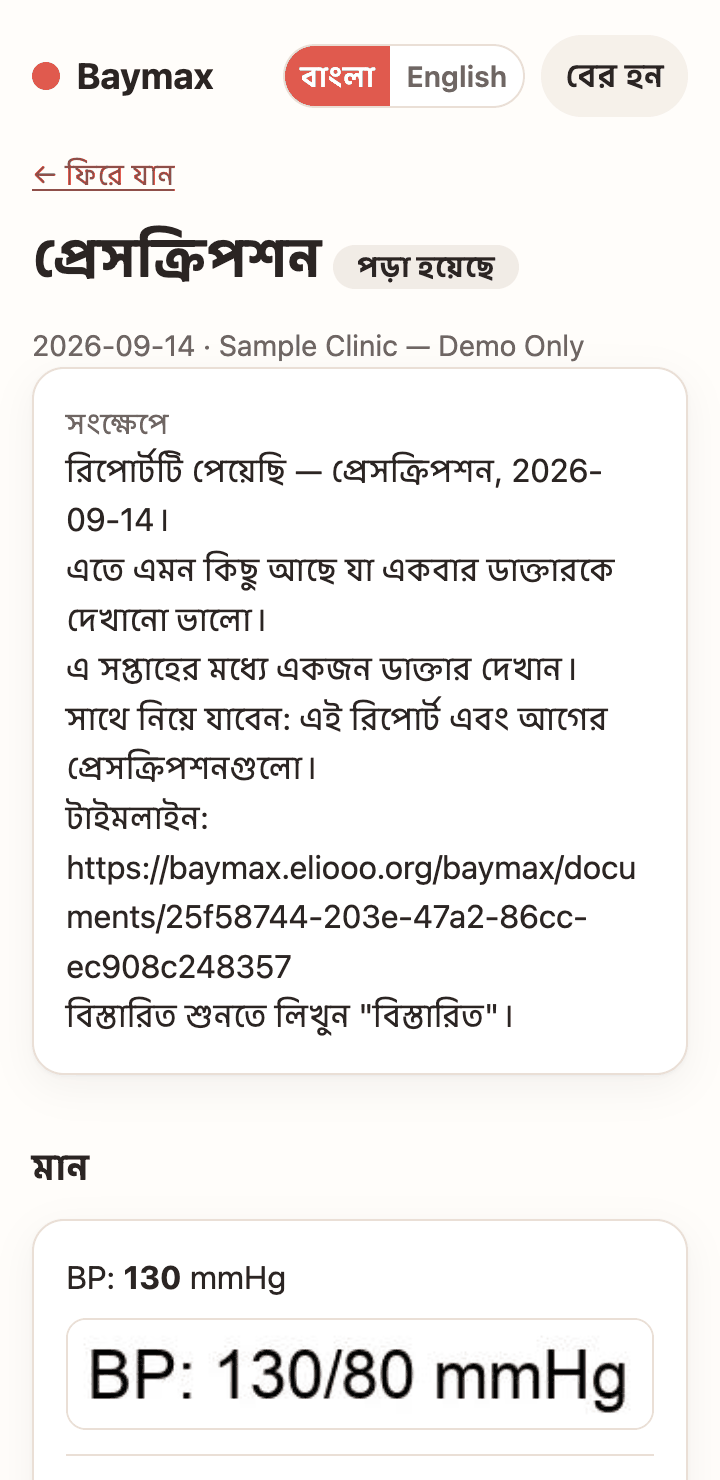
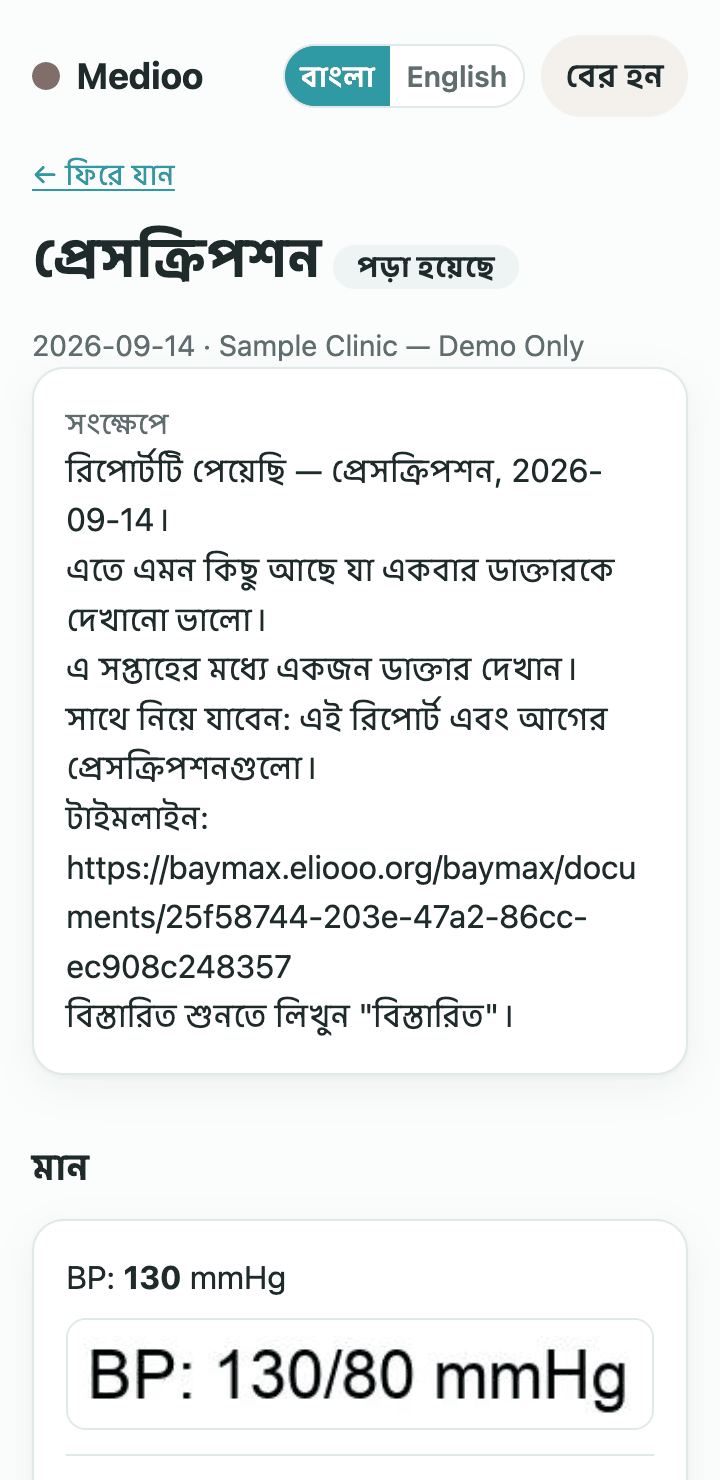
feat(baymax): Mio palette — teal primary, red reserved for the wordmark dot and NOW urgency; wordmark + mascot slots
DR-14 amended (PO, 2026-09-19). Tokens: teal primary from the Mio asset, white / warm neutral surfaces,
--c-urgent used only by .brand .dot and .urgent; destructive buttons are dark, not red. Header renders
Html.WORDMARK (/assets/medioo.svg) and the hero Html.MASCOT (/assets/mio.png) once the files are in
baymax/ui/ — until then the dot-and-name and a teal disc. Landing screenshot asset regenerated under
the new palette. The poster's gradient and icon strip are not used.

diff --git a/baymax/src/main/resources/baymax/ui/baymax.css b/baymax/src/main/resources/baymax/ui/baymax.css
@@ -1,23 +1,28 @@
-/* Baymax design tokens (DR-14). The ONLY place a colour, radius, spacing step or type size is written.
-   Pages consume tokens; a literal colour or radius anywhere else fails DesignTokensTest. */
+/* Medioo design tokens (DR-14, palette amended 2026-09-19 to match the Mio mascot). The ONLY place a colour,
+   radius, spacing step or type size is written. Pages consume tokens; a literal anywhere else fails DesignTokensTest.
+   Teal is the primary; RED IS RESERVED for the wordmark dot and NOW-urgency states (.urgent) and appears nowhere
+   else — that is what makes "এখনই যান" read as urgent. Values read off the supplied poster; replace from the SVG. */
 :root{
-  --c-bg:#fffdfa;            /* warm white page */
+  --c-bg:#fbfdfd;            /* white with a breath of teal */
   --c-surface:#ffffff;       /* cards */
-  --c-surface-2:#f6f1ea;     /* warm neutral, quiet blocks */
-  --c-text:#2b2523;
-  --c-muted:#6f6663;
-  --c-line:#eadfd6;
-  --c-accent:#e05a4e;        /* soft red */
-  --c-accent-ink:#b8382d;    /* red on light surfaces */
-  --c-accent-soft:#fbe9e6;
+  --c-surface-2:#f4f1ec;     /* warm neutral, quiet blocks */
+  --c-text:#1f2a2b;
+  --c-muted:#5f6d6e;
+  --c-line:#dfe9e9;
+  --c-accent:#2f9aa3;        /* Mio teal — primary */
+  --c-accent-ink:#1e6f78;    /* teal on light surfaces */
+  --c-accent-soft:#e3f3f4;
   --c-on-accent:#ffffff;
-  --c-info-soft:#f1ece6;
-  --c-warn-soft:#fff3e0;
-  --c-warn-line:#f2d9b0;
-  --c-danger:#b8382d;
-  --c-danger-soft:#fdecea;
-  --c-danger-line:#f3c1bb;
-  --c-focus:#e05a4e;
+  --c-brand-2:#4fa8d8;       /* the wordmark's light-blue "oo" */
+  --c-urgent:#f26b5b;        /* RESERVED: wordmark dot, NOW urgency */
+  --c-urgent-soft:#fdeae6;   /* RESERVED: NOW urgency surfaces */
+  --c-info-soft:#eef4f4;
+  --c-warn-soft:#fff6e5;
+  --c-warn-line:#f0dcae;
+  --c-danger:#1f2a2b;        /* destructive buttons are dark, never red */
+  --c-danger-soft:#f4f1ec;
+  --c-danger-line:#cfc6bb;
+  --c-focus:#2f9aa3;
   --r-s:10px; --r-m:16px; --r-l:24px; --r-pill:999px;
   --sp-1:4px; --sp-2:8px; --sp-3:12px; --sp-4:16px; --sp-5:24px; --sp-6:32px; --sp-7:48px;
   --fs-s:.9rem; --fs-0:1rem; --fs-1:1.125rem; --fs-2:1.375rem; --fs-3:1.75rem; --fs-4:2.25rem;
@@ -43,7 +48,8 @@ main.page{max-width:var(--w-page);margin:0 auto;padding:var(--sp-4)}
 .top .btn{padding:var(--sp-2) var(--sp-3);min-height:36px;margin:0}
 .top form{margin:0}
 .brand{display:inline-flex;align-items:center;gap:var(--sp-2);text-decoration:none;color:var(--c-text);font-weight:700;font-size:var(--fs-1);white-space:nowrap}
-.brand .dot{width:14px;height:14px;border-radius:var(--r-pill);background:var(--c-accent);flex:none}
+.brand .dot{width:14px;height:14px;border-radius:var(--r-pill);background:var(--c-urgent);flex:none}
+.brand img{height:28px;width:auto;display:block}
 .actions{display:flex;align-items:center;gap:var(--sp-2)}
 
 /* language toggle: two pills, the active one filled */
@@ -94,7 +100,7 @@ button.quiet:hover,.btn.quiet:hover{background:var(--c-line);color:var(--c-text)
 .hero .lead{font-size:var(--fs-1);color:var(--c-muted);max-width:34em}
 .hero .cta{margin-top:var(--sp-2)}
 .mascot{display:flex;justify-content:center}
-.mascot-slot{width:min(60vw,260px);aspect-ratio:1;border-radius:var(--r-pill);background:var(--c-accent-soft);display:flex;align-items:center;justify-content:center}
+.mascot-slot{width:min(60vw,260px);aspect-ratio:1;border-radius:var(--r-pill);background:var(--c-accent-soft);display:flex;align-items:center;justify-content:center;overflow:visible}
 .mascot-slot img{width:100%;height:100%;object-fit:contain}
 .steps{display:grid;gap:var(--sp-3)}
 .step{display:flex;gap:var(--sp-3);align-items:flex-start;background:var(--c-surface);border:1px solid var(--c-line);border-radius:var(--r-l);padding:var(--sp-4)}
@@ -118,5 +124,8 @@ button.quiet:hover,.btn.quiet:hover{background:var(--c-line);color:var(--c-text)
   .plans{grid-template-columns:1fr 1fr}
   main.page{padding:var(--sp-5)}
 }
+/* NOW urgency: the only red surface in the app (BMX-8 renders it; defined here so the rule is visible) */
+.urgent{background:var(--c-urgent-soft);border:1px solid var(--c-urgent);border-radius:var(--r-m);padding:var(--sp-3) var(--sp-4)}
+.urgent strong{color:var(--c-urgent)}
 @media (max-width:479px){.who{display:none}}
 @media (prefers-reduced-motion:reduce){*{transition:none!important}}

diff --git a/baymax/src/main/java/com/elioo/baymax/web/adapter/in/ui/WebUiHandler.java b/baymax/src/main/java/com/elioo/baymax/web/adapter/in/ui/WebUiHandler.java
@@ -58,7 +58,7 @@ public class WebUiHandler {
     static final String ELIOO = "https://www.eliooo.org/";
     static final String LOGIN_COOKIE = "baymax_login";
     /** Files under classpath {@code baymax/ui/} that {@code /assets/{file}} may serve; nothing else leaves the jar. */
-    static final Set<String> ASSETS = Set.of("baymax.css", "favicon.svg", "landing-shot.png", "mascot.png", "mascot.svg", "mascot.webp");
+    static final Set<String> ASSETS = Set.of("baymax.css", "favicon.svg", "landing-shot.png", "mio.png", "mio@2x.png", "mio.svg", "medioo.svg", "medioo.png");
 
     private final WebAuthUseCase auth;
     private final TimelineUseCase timeline;
@@ -71,7 +71,7 @@ public class WebUiHandler {
         Lang lang = Lang.of(request);
         String t = copy.t(lang, "app.title");
         StringBuilder b = new StringBuilder();
-        b.append("<div class=\"top\"><a class=\"brand\" href=\"/\"><span class=\"dot\"></span>").append(t).append("</a>")
+        b.append("<div class=\"top\"><a class=\"brand\" href=\"/\">").append(Html.brand(t)).append("</a>")
                 .append("<div class=\"actions\">").append(langToggle(lang, "/"))
                 .append("<a class=\"btn\" href=\"").append(BASE).append("\">").append(copy.t(lang, "landing.login")).append("</a></div></div>");
         b.append("<section class=\"hero\"><div><h1>").append(t).append("</h1>")
@@ -79,7 +79,7 @@ public class WebUiHandler {
                 .append("<p class=\"lead\">").append(copy.t(lang, "landing.lead")).append("</p>")
                 .append("<p class=\"cta\"><a class=\"btn\" href=\"").append(BASE).append("\">").append(copy.t(lang, "landing.cta")).append("</a></p></div>")
                 .append("<div class=\"mascot\"><div class=\"mascot-slot\">")
-                .append(Html.MASCOT == null ? "" : "<img alt=\"\" src=\"" + Html.MASCOT + "\">")
+                .append(Html.present(Html.MASCOT) ? "<img alt=\"Mio\" src=\"" + Html.MASCOT + "?v=" + Html.version("/baymax/ui/mio.png") + "\">" : "")
                 .append("</div></div></section>");
         b.append("<section class=\"section\"><h2>").append(copy.t(lang, "landing.how")).append("</h2><div class=\"steps\">");
         for (int i = 1; i <= 3; i++) {
@@ -492,7 +492,7 @@ public class WebUiHandler {
     /** The top bar: brand home, language toggle, and the logout button when signed in. */
     private String top(Lang lang, String who, boolean signedIn) {
         String here = signedIn ? BASE + "/home" : BASE + "/";
-        return "<div class=\"top\"><a class=\"brand\" href=\"" + here + "\"><span class=\"dot\"></span>" + copy.t(lang, "app.title") + "</a>"
+        return "<div class=\"top\"><a class=\"brand\" href=\"" + here + "\">" + Html.brand(copy.t(lang, "app.title")) + "</a>"
                 + "<div class=\"actions\">" + langToggle(lang, here)
                 + (signedIn ? "<form method=\"post\" action=\"" + BASE + "/logout\"><button type=\"submit\" class=\"quiet\">"
                 + (who == null ? "" : "<span class=\"who\">" + esc(who) + " · </span>") + copy.t(lang, "app.logout") + "</button></form>" : "")

diff --git a/baymax/src/main/java/com/elioo/baymax/web/adapter/in/ui/Html.java b/baymax/src/main/java/com/elioo/baymax/web/adapter/in/ui/Html.java
@@ -34,11 +34,30 @@ final class Html {
     static final String ICON_HREF = "/assets/favicon.svg?v=" + version("/baymax/ui/favicon.svg");
 
     /**
-     * The mascot image, referenced from this one place so swapping the file is one change. {@code null} until
-     * Tanvir's asset lands (BMX-6b: never generate or approximate the character); the hero then shows a plain
-     * soft-red disc, not a stand-in figure.
+     * Mio, the mascot, referenced from this one place so swapping the file is one change (an original asset
+     * from Tanvir — never a generated or approximated character). Until the file is in the jar the hero shows
+     * a plain teal disc, not a stand-in figure.
      */
-    static final String MASCOT = null;
+    static final String MASCOT = "/assets/mio.png";
+
+    /** The medioo wordmark, header of every page. Same rule: one constant, rendered only once the file is in the jar. */
+    static final String WORDMARK = "/assets/medioo.svg";
+
+    /** True when the asset behind an {@code /assets/…} path is in the jar, so a slot never shows a broken image. */
+    static boolean present(String assetPath) {
+        String file = assetPath.substring("/assets/".length());
+        try (java.io.InputStream in = Html.class.getResourceAsStream("/baymax/ui/" + file)) {
+            return in != null;
+        } catch (java.io.IOException e) {
+            return false;
+        }
+    }
+
+    /** The brand mark for a top bar: the wordmark image when present, else the dot and the name. */
+    static String brand(String title) {
+        return present(WORDMARK) ? "<img alt=\"" + esc(title) + "\" src=\"" + WORDMARK + "?v=" + version("/baymax/ui/medioo.svg") + "\">"
+                : "<span class=\"dot\"></span>" + title;
+    }
 
     /** The landing screenshot: the sample document page beside its values and crops. Tanvir supplies the final one. */
     static final String LANDING_SHOT = "/assets/landing-shot.png";

diff --git a/docs/MEDIOO.md b/docs/MEDIOO.md
@@ -48,7 +48,7 @@ MedScribe is becoming Medioo (codename Baymax): a WhatsApp-first health-memory a
 - Every Baymax entity uses a schema-qualified table name (`@Table("baymax.document")` etc.). The shared R2DBC connection keeps `medscribe` as its search path (BMX-0 review).
 - Bangla TTS for voice notes (provider TBD by Tanvir).
 - **URL layout (DR-11, done in BMX-6b):** Baymax serves `/` — the landing page at `/`, the app at `/app/**` (login, home, timeline, document), the stylesheet and landing images at `/assets/**`, the language switch at `/lang/{bn|en}`. Every old `/baymax/**` URL answers 301 to its `/app/**` twin, query string kept, so a saved timeline link still opens. The MedScribe PoC moved wholesale to `/medscribeai/` (`MedScribePaths.PREFIX`: its UI at `/medscribeai/`, every API route and static asset under it; `/actuator/**` stays at the root because deploy.sh, the Dockerfile and CI probe it there). `/api/v1/baymax/**` is unchanged. Caddy on the box proxies the whole host and needed no change (verified on the Caddyfile).
-- **Landing page and design system (BMX-6b, DR-14).** One token stylesheet, `baymax/src/main/resources/baymax/ui/baymax.css` (colour, radius, spacing, type scale; white / warm neutral / soft red, generous radius, no hospital blue), consumed by the landing page and every app page; `DesignTokensTest` fails on any colour, radius or font-size literal in the UI sources. The landing page explains the product to a stranger: hero (wordmark, tagline — a marked TODO until Tanvir supplies it — one sentence, login button), three steps, a screenshot of the sample document page, the free and BDT 249 Family plans (§4.1), four verifiable data facts (encrypted, never sold, deleted within 24 h on request, every value beside its original — nothing about where data is hosted, no blanket "safe"), and the disclaimer footer, which is on every page, app and landing alike. No script, no external font or request; the whole page is under 200 KB. **Every served asset is linked with a content-hash version (`/assets/baymax.css?v=<hash>`, `Html.CSS_HREF`) and cached for a day — standard for any asset this app serves (PO, 2026-09-18): the first restyle was served stale from the browser cache after a restart, and would have been to every family after every deploy.** The session cookie is scoped to `Path=/app` (never sent to `/medscribeai/**` or the JSON API), and every response carries a Content-Security-Policy, `X-Frame-Options: DENY` and `nosniff` (`SecurityHeadersFilter`: no script at all outside the PoC prefix; the PoC page gets its inline script and the Tailwind CDN and nothing else). Every string of landing and app lives in `baymax/ui_bn.properties` / `ui_en.properties` (same keys, asserted); the toggle is the `baymax_lang` cookie (`GET /lang/{code}?back=`, local paths only, a year), Bangla by default, never browser sniffing. The mascot slot is `Html.MASCOT`, one constant, empty (a plain soft-red disc) until Tanvir's asset lands: the reference images are Disney's character and are never committed. The screenshot is `Html.LANDING_SHOT`; the file in the jar is our own 360-wide capture of the sample document until Tanvir supplies one.
+- **Landing page and design system (BMX-6b, DR-14).** One token stylesheet, `baymax/src/main/resources/baymax/ui/baymax.css` (colour, radius, spacing, type scale; **teal primary from the Mio mascot, white / warm neutral surfaces, red reserved for the wordmark dot and NOW-urgency states (`.urgent`) and nowhere else** — DR-14 as amended 2026-09-19; generous radius, no hospital blue), consumed by the landing page and every app page; `DesignTokensTest` fails on any colour, radius or font-size literal in the UI sources. The landing page explains the product to a stranger: hero (wordmark, tagline — a marked TODO until Tanvir supplies it — one sentence, login button), three steps, a screenshot of the sample document page, the free and BDT 249 Family plans (§4.1), four verifiable data facts (encrypted, never sold, deleted within 24 h on request, every value beside its original — nothing about where data is hosted, no blanket "safe"), and the disclaimer footer, which is on every page, app and landing alike. No script, no external font or request; the whole page is under 200 KB. **Every served asset is linked with a content-hash version (`/assets/baymax.css?v=<hash>`, `Html.CSS_HREF`) and cached for a day — standard for any asset this app serves (PO, 2026-09-18): the first restyle was served stale from the browser cache after a restart, and would have been to every family after every deploy.** The session cookie is scoped to `Path=/app` (never sent to `/medscribeai/**` or the JSON API), and every response carries a Content-Security-Policy, `X-Frame-Options: DENY` and `nosniff` (`SecurityHeadersFilter`: no script at all outside the PoC prefix; the PoC page gets its inline script and the Tailwind CDN and nothing else). Every string of landing and app lives in `baymax/ui_bn.properties` / `ui_en.properties` (same keys, asserted); the toggle is the `baymax_lang` cookie (`GET /lang/{code}?back=`, local paths only, a year), Bangla by default, never browser sniffing. The mascot is Mio (`Html.MASCOT` → `/assets/mio.png`) and the header carries the medioo wordmark (`Html.WORDMARK` → `/assets/medioo.svg`); each is one constant and renders only once its file is in `baymax/ui/`, so dropping Tanvir's files in is the whole change (until then: a teal disc in the hero, the dot-and-name in the header). Never a generated or approximated character. The screenshot is `Html.LANDING_SHOT`; the file in the jar is our own 360-wide capture of the sample document until Tanvir supplies one.
 - Build order: web first (family accounts, patient profiles, timeline, review-gate UI, cost logging), then WhatsApp channel.
 
 ## Data model (target, adjust as needed)

diff --git a/docs/DECISIONS.md b/docs/DECISIONS.md
@@ -208,3 +208,10 @@ names `baymax_*`, the asset path `/assets/baymax.css`, branch and ticket prefixe
 buys nothing and risks a bad deploy. `MediooBrandTest` asserts no bundle string and no rendered page carries the codename.
 Pre-rename check: medioo.eliooo.org already resolves to the EC2 box (no Caddy site block yet); a quick search found no Bangladeshi health product
 named Medioo (MedEasy and MedicBD are the nearest names) — not a trademark search.
+
+*Amendment to DR-14 (PO, 2026-09-19, with the Mio mascot and medioo wordmark):* palette is **teal primary** (from the
+asset), white and warm neutral surfaces; **red is reserved for the wordmark dot and NOW-urgency states only** — red
+appearing nowhere else is what makes "এখনই যান" read as urgent. Destructive buttons are dark, not red. The supplied
+poster is a marketing asset: its gradient background and three-icon footer strip are not used on the landing page.
+Slots: `Html.WORDMARK` (`/assets/medioo.svg`, header of every page) and `Html.MASCOT` (`/assets/mio.png`, hero);
+each renders only once its file is in `baymax/src/main/resources/baymax/ui/`, so dropping the files in is the whole change.
